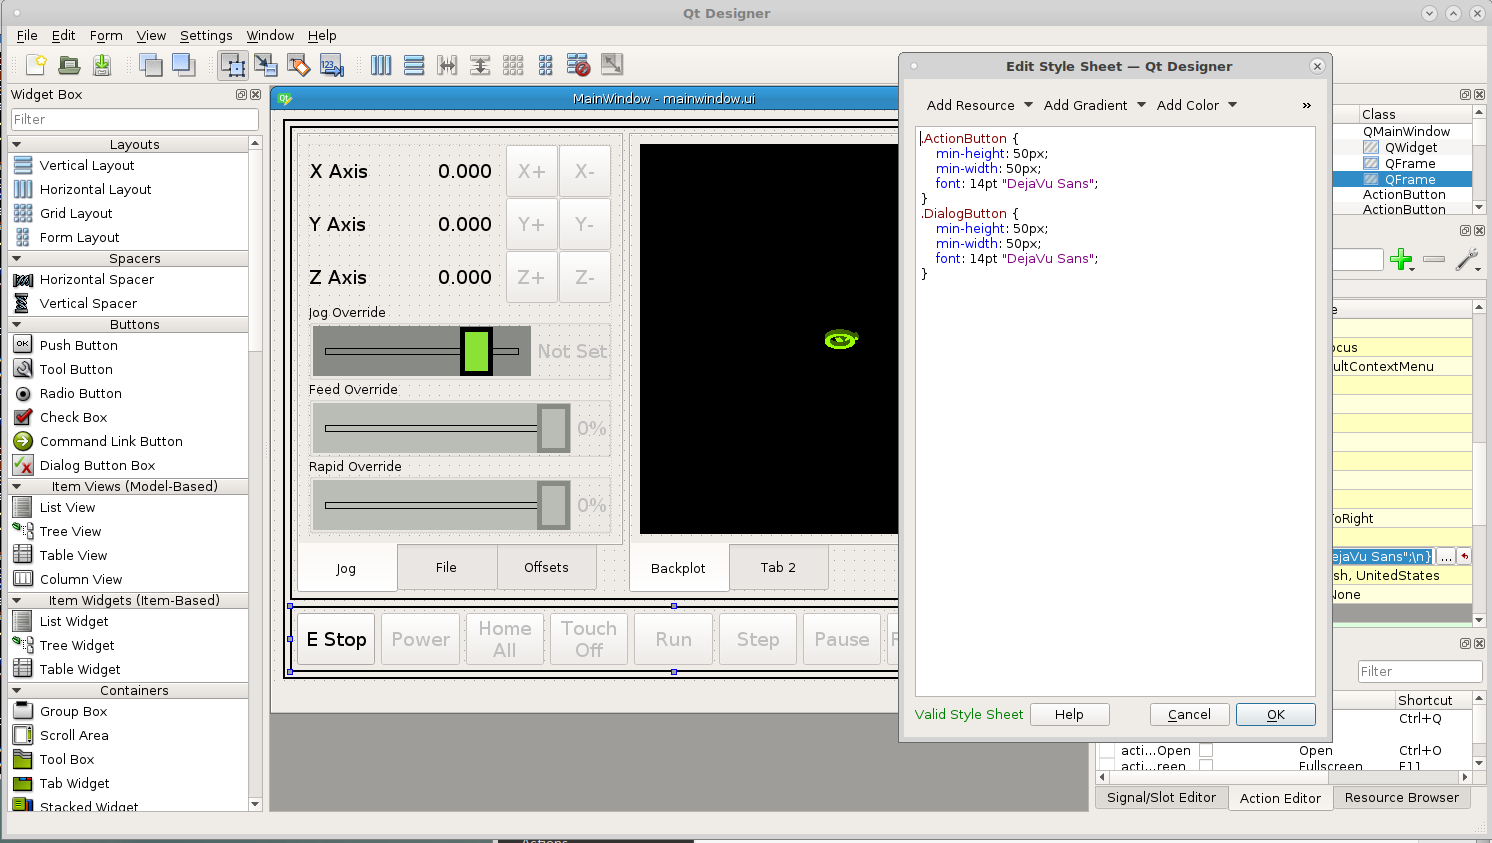
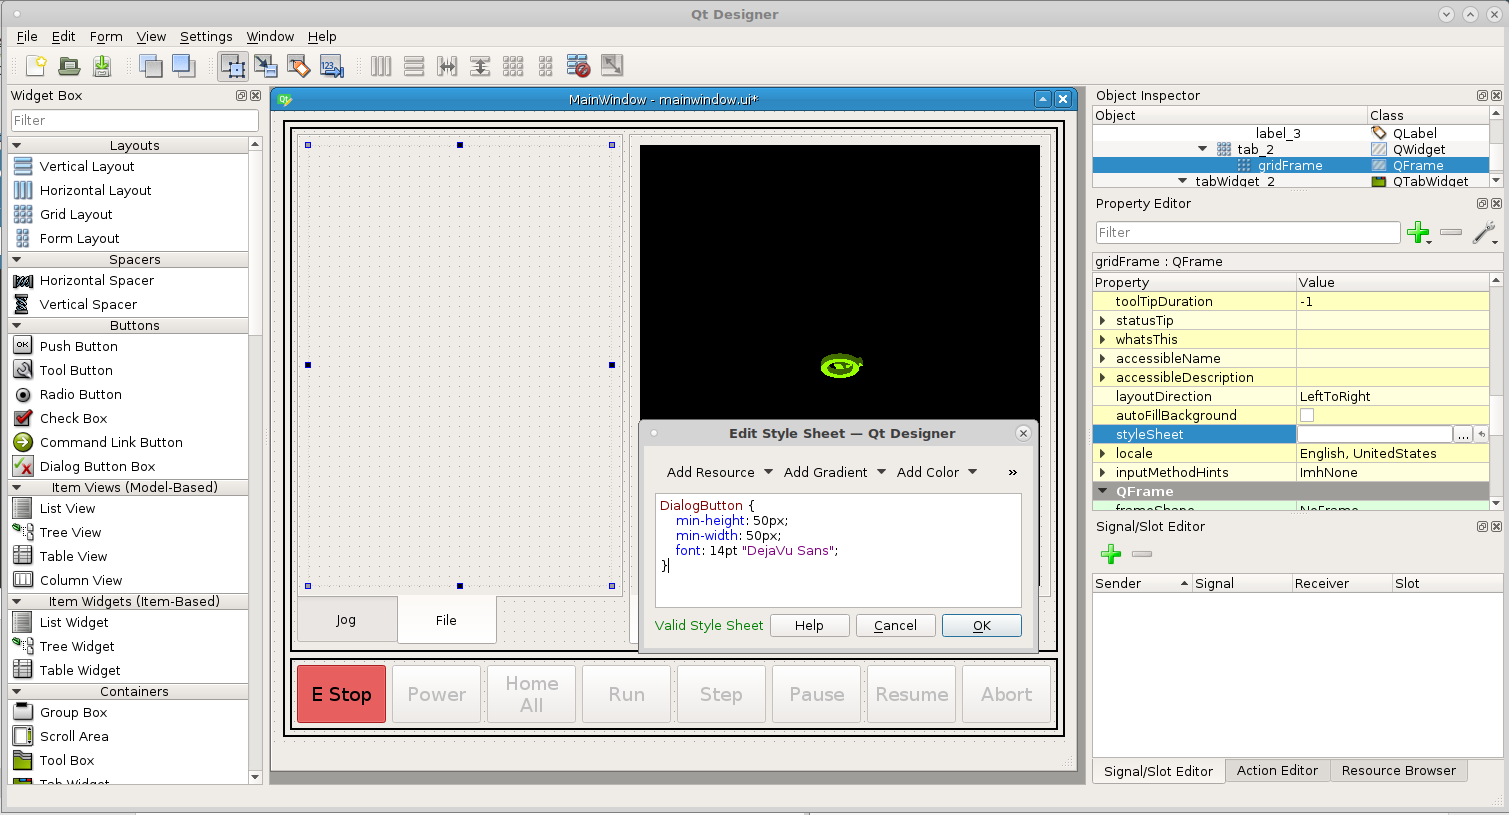
DOC: add file navigator and dro

diff --git a/docs/source/tutorials/basic_vcp_06.rst b/docs/source/tutorials/basic_vcp_06.rst
@@ -1,8 +1,61 @@
 ==============
-Status Display
+File Navigator
 ==============
 
-.. Note::
-    This page is under construction, I'll try and get the construction done as
-    fast as possible.
+In Tab 2 of the left tab widget do the same as before add a grid layout, right
+click in the tab and select layout as a grid, right click the grid and morph
+into qframe. in the frame stylesheet add the following::
+
+    DialogButton {
+        min-height: 50px;
+        min-width: 50px;
+        font: 14pt "DejaVu Sans";
+    }
+
+.. image:: images/vcp1-designer-21.png
+   :align: center
+   :scale: 40 %
+
+Now add a `FileSystemTable` into the QFrame. In `hiddenColumns` add ``1,2`` to
+hide the second and third column (numbers start at 0). Now change
+`HorizontalDefaultSectionSize` to 175. This will make the left column a bit
+wider.
+
+.. image:: images/vcp1-designer-22.png
+   :align: center
+   :scale: 40 %
+
+Now add a grid under the file navigator and make sure its inside the frame and
+morph it into a frame. Temporarily change the topMargin to 10 so you can drag
+some `Push Buttons` from the `Buttons` Widget section (we don't need action
+buttons for this. From left to right name them `Up, Down and Select`. Change the
+`objectNames` to ``navUp`` ``navDown`` and ``navSelect``.
+
+Select the `Signal/Slot` tab and add a new one with the green plus. Using the
+drop down box for each item select as follows::
+
+    Sender      Signal      Receiver            Slot
+    navUp       clicked()   filesystemtable     selectPrevious()
+    navDown     clicked()   filesystemtable     selectNext()
+    navSelect   clicked()   filesystemtable     openSelectedItem()
+
+.. image:: images/vcp1-designer-23.png
+   :align: center
+   :scale: 40 %
+
+Now when we run the VCP we can navigate up and down When you `Select` a
+directory it opens the directory. When you `Select` a file it loads that file
+into the VCP
+
+.. image:: images/vcp1-run-11.png
+   :align: center
+   :scale: 60 %
+
+If you change the `VerticalHeaderDefaultSectionSize` to 50 it will make the file
+names large enough to just click on them with the touch screen.
+
+.. image:: images/vcp1-designer-24.png
+   :align: center
+   :scale: 40 %
+
 

diff --git a/docs/source/tutorials/basic_vcp_05.rst b/docs/source/tutorials/basic_vcp_05.rst
@@ -1,17 +1,11 @@
-===================
-DRO and File Dialog
-===================
-
-.. Note::
-    This tutorial is being reconstructed so images on this page might not match
-    up with the text. I'll try and get the reconstruction done as fast as
-    possible.
-
+===
+DRO
+===
 
 Add a `DROWidget` between the jog buttons and the axis labels and set the axis
 and the reference_type to `Relative` for each one.
 
-.. image:: images/vcp1-designer-19.png
+.. image:: images/vcp1-designer-20.png
    :align: center
    :scale: 40 %
 
@@ -20,50 +14,3 @@ Now when we run the VCP we can see the DRO's change when we jog an axis.
 .. image:: images/vcp1-run-10.png
    :align: center
    :scale: 60 %
-
-In the second left tab widget do the same as before add a grid layout, right
-click in the tab and select layout as a grid, right click the grid and morph
-into qframe. in the frame stylesheet add the following::
-
-    .DialogButton {
-        min-height: 50px;
-        min-width: 50px;
-        font: 14pt "DejaVu Sans";
-    }
-
-Now add a `GcodeEditor` and a `DialogButton` and set the dialog button
-`dialog_name` to ``open_file``. Remember to select the tabs you want to show
-when the VCP is started then save the VCP.
-
-.. image:: images/vcp1-designer-20.png
-   :align: center
-   :scale: 40 %
-
-Now when you run the VCP you can with a small object open a file.
-
-.. image:: images/vcp1-run-11.png
-   :align: center
-   :scale: 60 %
-
-Now add a `DialogButton` between the home button and the run button and set the
-text to ``Touch\nOff`` and the `DialogName` to ``set_work_offsets``. In the
-stylesheet for the buttons frame add the following::
-
-    .DialogButton {
-        min-height: 50px;
-        min-width: 50px;
-        font: 14pt "DejaVu Sans";
-    }
-
-.. image:: images/vcp1-designer-21.png
-   :align: center
-   :scale: 40 %
-
-Add a rule to the dialog button enable with the channel ``status:enabled``
-and the expression is ``ch[0]``. This will disable the touch off button until
-power is applied.
-
-.. image:: images/vcp1-designer-22.png
-   :align: center
-   :scale: 40 %
-

diff --git a/docs/source/tutorials/basic_vcp_04.rst b/docs/source/tutorials/basic_vcp_04.rst
@@ -167,9 +167,3 @@ Now when we run the VCP we can see the changes.
 .. image:: images/vcp1-run-09.png
    :align: center
    :scale: 60 %
-
-.. Note::
-    This tutorial is being reconstructed so images beyond this point might not
-    match up with the text. I'll try and get the reconstruction done as fast as
-    possible.
-

diff --git a/docs/source/tutorials/basic_vcp_07.rst b/docs/source/tutorials/basic_vcp_07.rst
@@ -1,0 +1,8 @@
+============
+Next Subject
+============
+
+.. Note::
+    This page is under construction, I'll try and get the construction done as
+    fast as possible.
+

diff --git a/docs/source/tutorials/basic_vcp.rst b/docs/source/tutorials/basic_vcp.rst
@@ -15,3 +15,4 @@ This will cover the steps to build a basic VCP.
    basic_vcp_04
    basic_vcp_05
    basic_vcp_06
+   basic_vcp_07
